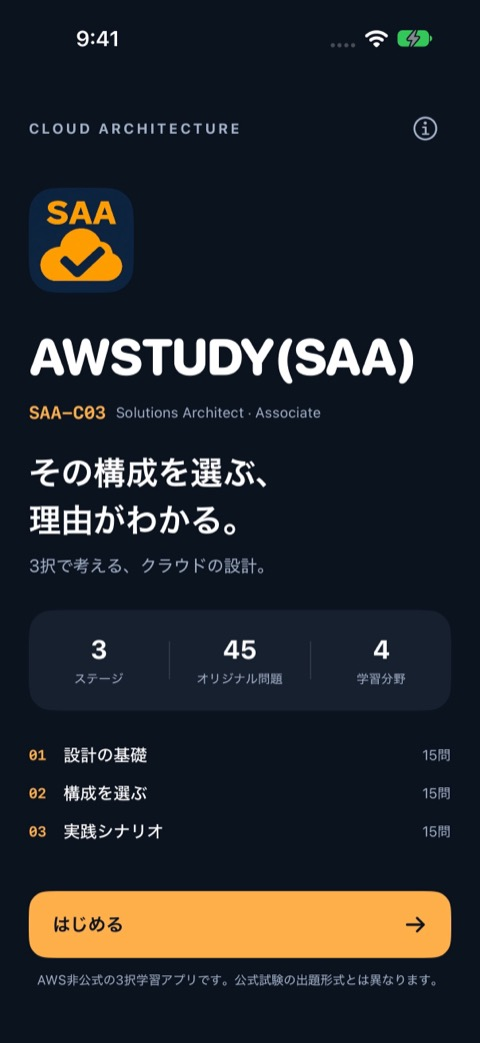
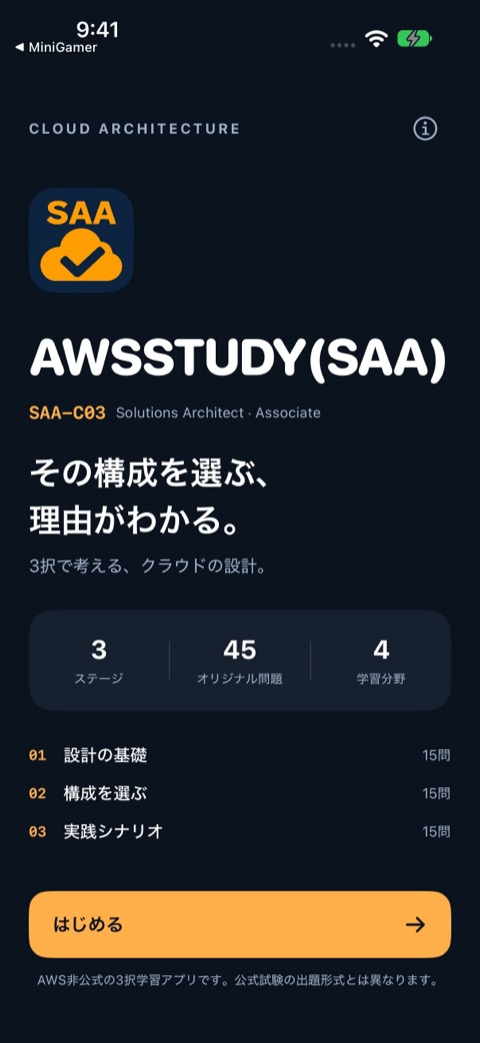
Finalize AWSSTUDY SAA public branding before release

Changed region(s): [[0.2812, 0.3068, 0.9375, 0.3682], [0.0312, 0.0, 0.25, 0.0614]]

diff --git a/apps/awstady-saa/index.html b/apps/awstady-saa/index.html
@@ -3,7 +3,7 @@
 <head>
 <meta charset="UTF-8">
 <meta name="viewport" content="width=device-width, initial-scale=1.0">
-<title>AWSTUDY(SAA) | GiveTex</title>
+<title>AWSSTUDY(SAA) | GiveTex</title>
 <meta name="description" content="AWSの設計判断を理由から学ぶiPhone用3択クイズ。SAA-C03を参考にした45問と、間違えた問題だけの復習。">
 <link rel="canonical" href="https://givetex.org/apps/awstady-saa/">
 <link rel="preconnect" href="https://fonts.googleapis.com">
@@ -17,16 +17,16 @@
 <nav><a href="/">記事一覧</a><a href="/apps/">アプリ</a><a href="/about.html">このサイトについて</a><a href="/privacy.html">プライバシーポリシー</a></nav>
 </div></header>
 <main class="content">
-<p class="crumbs"><a href="/">GiveTex</a> › <a href="/apps/">アプリ</a> › AWSTUDY(SAA)</p>
-<h1>AWSTUDY(SAA)</h1>
+<p class="crumbs"><a href="/">GiveTex</a> › <a href="/apps/">アプリ</a> › AWSSTUDY(SAA)</p>
+<h1>AWSSTUDY(SAA)</h1>
 <div class="hero">
-<img class="app-icon" src="/apps/awstady-saa/images/icon.jpg" width="256" height="256" alt="SAAの文字とクラウドのチェックマークを配したAWSTUDY(SAA)のアイコン" loading="lazy">
+<img class="app-icon" src="/apps/awstady-saa/images/icon.jpg" width="256" height="256" alt="SAAの文字とクラウドのチェックマークを配したAWSSTUDY(SAA)のアイコン" loading="lazy">
 <p>その構成を選ぶ、理由がわかる。</p>
 </div>
-<p>AWSのサービスを、名前だけでなく設計の条件から選べるように。AWSTUDY(SAA)は、SAA-C03の出題範囲を参考にした日本語の3択学習アプリです。1問ごとに設計のポイントと、すべての選択肢の理由を確認できます。</p>
+<p>AWSのサービスを、名前だけでなく設計の条件から選べるように。AWSSTUDY(SAA)は、SAA-C03の出題範囲を参考にした日本語の3択学習アプリです。1問ごとに設計のポイントと、すべての選択肢の理由を確認できます。</p>
 <h2>画面イメージ</h2>
 <div class="shots">
-<figure><img src="/apps/awstady-saa/images/01-start.jpg" width="480" height="1044" alt="AWSTUDY(SAA)のスタート画面" loading="lazy"><figcaption>はじめる、からすぐ学習</figcaption></figure>
+<figure><img src="/apps/awstady-saa/images/01-start.jpg" width="480" height="1044" alt="AWSSTUDY(SAA)のスタート画面" loading="lazy"><figcaption>はじめる、からすぐ学習</figcaption></figure>
 <figure><img src="/apps/awstady-saa/images/02-question.jpg" width="480" height="1044" alt="AWSの設計シナリオと3つの選択肢" loading="lazy"><figcaption>要件から構成を選ぶ</figcaption></figure>
 <figure><img src="/apps/awstady-saa/images/03-explanation.jpg" width="480" height="1044" alt="正解と設計ポイントを示す解説画面" loading="lazy"><figcaption>選んだ理由を確かめる</figcaption></figure>
 <figure><img src="/apps/awstady-saa/images/04-result.jpg" width="480" height="1044" alt="正解数と4分野の成績を示す結果画面" loading="lazy"><figcaption>得意と苦手をふりかえる</figcaption></figure>

diff --git a/apps/awstady-saa/privacy/index.html b/apps/awstady-saa/privacy/index.html
@@ -3,8 +3,8 @@
 <head>
 <meta charset="UTF-8">
 <meta name="viewport" content="width=device-width, initial-scale=1.0">
-<title>プライバシーポリシー | AWSTUDY(SAA) | GiveTex</title>
-<meta name="description" content="AWSTUDY(SAA)の学習データ、広告SDK、同意とプライバシーに関する情報の取り扱い。">
+<title>プライバシーポリシー | AWSSTUDY(SAA) | GiveTex</title>
+<meta name="description" content="AWSSTUDY(SAA)の学習データ、広告SDK、同意とプライバシーに関する情報の取り扱い。">
 <link rel="canonical" href="https://givetex.org/apps/awstady-saa/privacy/">
 <link rel="preconnect" href="https://fonts.googleapis.com">
 <link rel="preconnect" href="https://fonts.gstatic.com" crossorigin>
@@ -17,10 +17,10 @@
 <nav><a href="/">記事一覧</a><a href="/apps/">アプリ</a><a href="/about.html">このサイトについて</a><a href="/privacy.html">プライバシーポリシー</a></nav>
 </div></header>
 <main class="content">
-<p class="crumbs"><a href="/">GiveTex</a> › <a href="/apps/">アプリ</a> › <a href="/apps/awstady-saa/">AWSTUDY(SAA)</a> › プライバシーポリシー</p>
-<h1>AWSTUDY(SAA) プライバシーポリシー</h1>
+<p class="crumbs"><a href="/">GiveTex</a> › <a href="/apps/">アプリ</a> › <a href="/apps/awstady-saa/">AWSSTUDY(SAA)</a> › プライバシーポリシー</p>
+<h1>AWSSTUDY(SAA) プライバシーポリシー</h1>
 <p class="meta">制定日：2026年11月3日 ／ 運営者：GiveTex</p>
-<p>GiveTexは、AWSの設計判断を学ぶiPhone用アプリ「AWSTUDY(SAA)」（以下「本アプリ」）で扱う情報について、次のとおり説明します。</p>
+<p>GiveTexは、AWSの設計判断を学ぶiPhone用アプリ「AWSSTUDY(SAA)」（以下「本アプリ」）で扱う情報について、次のとおり説明します。</p>
 <h2>1. アカウントと学習データ</h2>
 <p>本アプリにアカウント登録・ログインはありません。回答、正誤、ステージの成績、復習対象は、アプリ実行中の端末内で扱います。これらの学習データを運営者のサーバーへ送信しません。永続保存は行わず、アプリのプロセスが終了するとリセットされます。</p>
 <p>運営者は、本アプリで利用者の興味・関心を独自に収集する機能や、独自の行動分析SDKを導入していません。</p>

diff --git a/apps/awstady-saa/support/index.html b/apps/awstady-saa/support/index.html
@@ -3,8 +3,8 @@
 <head>
 <meta charset="UTF-8">
 <meta name="viewport" content="width=device-width, initial-scale=1.0">
-<title>サポート | AWSTUDY(SAA) | GiveTex</title>
-<meta name="description" content="AWSTUDY(SAA)のお問い合わせとFAQ。進み具合、復習、広告、公式試験との違いをご案内します。">
+<title>サポート | AWSSTUDY(SAA) | GiveTex</title>
+<meta name="description" content="AWSSTUDY(SAA)のお問い合わせとFAQ。進み具合、復習、広告、公式試験との違いをご案内します。">
 <link rel="canonical" href="https://givetex.org/apps/awstady-saa/support/">
 <link rel="preconnect" href="https://fonts.googleapis.com">
 <link rel="preconnect" href="https://fonts.gstatic.com" crossorigin>
@@ -17,8 +17,8 @@
 <nav><a href="/">記事一覧</a><a href="/apps/">アプリ</a><a href="/about.html">このサイトについて</a><a href="/privacy.html">プライバシーポリシー</a></nav>
 </div></header>
 <main class="content">
-<p class="crumbs"><a href="/">GiveTex</a> › <a href="/apps/">アプリ</a> › <a href="/apps/awstady-saa/">AWSTUDY(SAA)</a> › サポート</p>
-<h1>AWSTUDY(SAA) サポート</h1>
+<p class="crumbs"><a href="/">GiveTex</a> › <a href="/apps/">アプリ</a> › <a href="/apps/awstady-saa/">AWSSTUDY(SAA)</a> › サポート</p>
+<h1>AWSSTUDY(SAA) サポート</h1>
 <p class="meta">AWSの設計判断を学ぶ、iPhone用3択学習アプリのサポートです。</p>
 <h2>お問い合わせ</h2>
 <p>不具合のご報告・ご意見は、次のメールアドレスへお願いします。</p>

diff --git a/apps/index.html b/apps/index.html
@@ -29,8 +29,8 @@
 <p class="meta">GiveTexが開発・提供しているアプリの紹介、サポート、プライバシーポリシーをまとめています。</p>
 
 <a class="card with-icon" href="/apps/awstady-saa/">
-  <img src="/apps/awstady-saa/images/icon.jpg" width="64" height="64" alt="AWSTUDY(SAA)のアイコン" loading="lazy">
-  <div><strong>AWSTUDY(SAA)</strong><span>AWSの設計判断を理由から学ぶ、iPhone用3択クイズ。45問と誤答復習。App Store準備中。</span></div>
+  <img src="/apps/awstady-saa/images/icon.jpg" width="64" height="64" alt="AWSSTUDY(SAA)のアイコン" loading="lazy">
+  <div><strong>AWSSTUDY(SAA)</strong><span>AWSの設計判断を理由から学ぶ、iPhone用3択クイズ。45問と誤答復習。App Store準備中。</span></div>
 </a>
 
 <a class="card with-icon" href="/apps/winequiz/">
